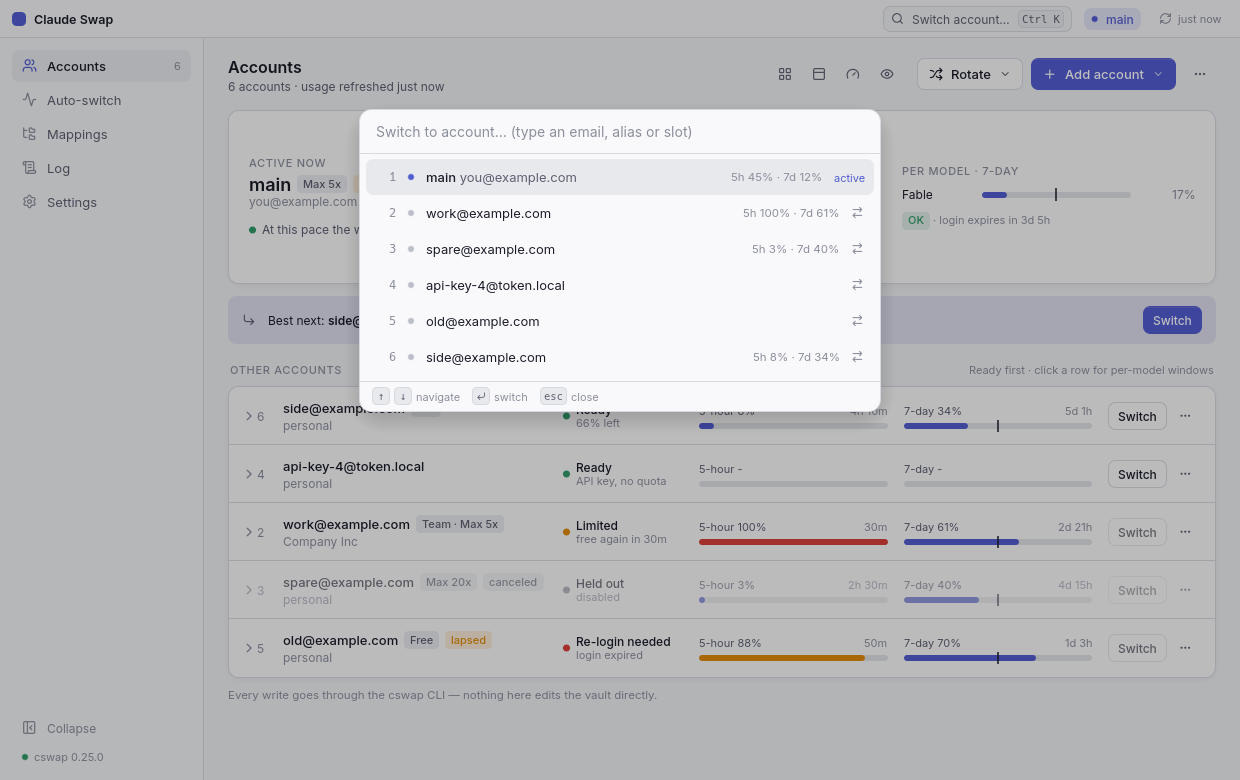
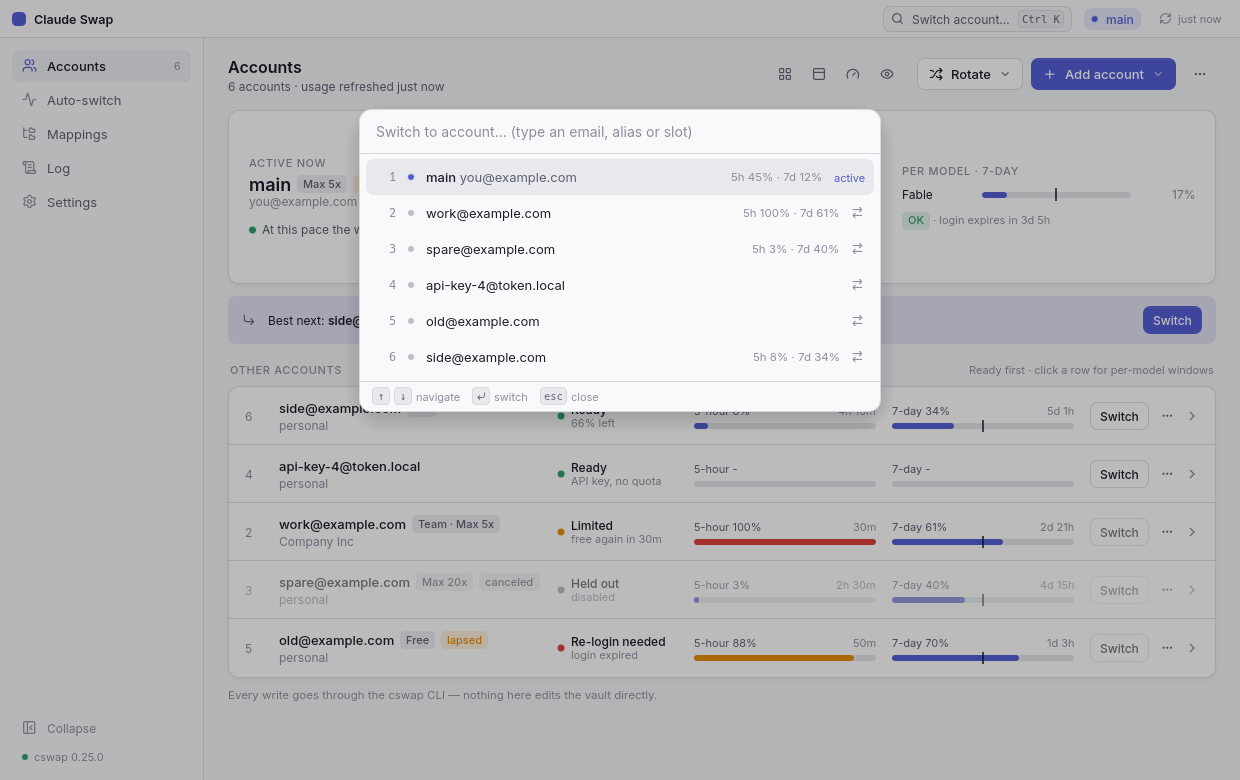
fix(accounts): ring arc on its track; expand chevron at the row's right end
- usage.rs: the track was a circle_stroke, which egui 0.37 paints OUTSIDE its
  radius, while the arc is a centred polyline, so the arc sat ~3.5 px inside
  the track. Track, arc and pace tick now come from one RingGeom (one centre
  radius, one width, centred strokes) in a pure ring_shapes(), with a test.
- accounts.rs: the chevron beside the slot number read as one glyph ("› 6");
  it now sits after the ⋯ menu and turns 90° as the row opens (150 ms), the
  number stays alone on the left. Same in the narrow layout. Number column
  18 px and bar minimum 120 px give back the room, so no chip wraps again.

Snapshots, review renders and README screenshots regenerated.

diff --git a/crates/ui/src/usage.rs b/crates/ui/src/usage.rs
@@ -74,37 +74,80 @@ pub fn bar(ui: &mut Ui, t: &Tokens, id: Id, pct: Option<f64>, tone: Tone, pace: 
     resp
 }
 
+/// Where a ring's strokes go: ONE centre radius and ONE width for the track, the arc and
+/// the pace tick. 1.1.0 drew the track with `circle_stroke`, which egui 0.37 paints OUTSIDE
+/// its radius, and the arc as a centred polyline: the arc sat 3.5 px inside its track.
+#[derive(Debug, Clone, Copy, PartialEq)]
+pub struct RingGeom {
+    pub center: Pos2,
+    /// Centre line of the stroke.
+    pub radius: f32,
+    pub width: f32,
+}
+
+impl RingGeom {
+    /// The ring in a `size` px square: the stroke's outer edge 2.5 px inside the square.
+    pub fn in_rect(rect: Rect) -> Self {
+        let size = rect.width().min(rect.height());
+        RingGeom { center: rect.center(), radius: size / 2.0 - 2.5 - RING_STROKE / 2.0, width: RING_STROKE }
+    }
+
+    /// Points on the centre line from twelve o'clock clockwise to `frac` of a turn.
+    fn points(&self, frac: f32) -> Vec<Pos2> {
+        let n = ((frac * 128.0).ceil() as usize).max(2);
+        (0..=n).map(|k| clock_point(self.center, self.radius, frac * k as f32 / n as f32)).collect()
+    }
+}
+
+/// The shapes of a ring (track, arc with round caps, pace tick), pure so the geometry can
+/// be tested: every stroke is centred on [`RingGeom::radius`] and is [`RingGeom::width`]
+/// wide; the tick crosses it, from one width inside that radius to one width outside.
+pub fn ring_shapes(
+    g: RingGeom,
+    filled_frac: f32,
+    pace_frac: Option<f32>,
+    track: Color32,
+    arc: Color32,
+    tick: Color32,
+) -> Vec<Shape> {
+    let mut out = Vec::new();
+    let mut ring = g.points(1.0);
+    ring.pop(); // closed: the last point would repeat the first
+    out.push(Shape::closed_line(ring, Stroke::new(g.width, track)));
+    // A zero-length arc with a round cap still paints a dot, which reads as "a little
+    // used" when the answer is none: nothing is drawn at 0.
+    if filled_frac > 0.0 {
+        let pts = g.points(filled_frac.min(1.0));
+        let (first, last) = (pts[0], pts[pts.len() - 1]);
+        out.push(Shape::line(pts, Stroke::new(g.width, arc)));
+        out.push(Shape::circle_filled(first, g.width / 2.0, arc));
+        out.push(Shape::circle_filled(last, g.width / 2.0, arc));
+    }
+    if let Some(f) = pace_frac {
+        let f = f.clamp(0.0, 1.0);
+        let (inner, outer) = (g.radius - g.width, g.radius + g.width);
+        out.push(Shape::line_segment(
+            [clock_point(g.center, inner, f), clock_point(g.center, outer, f)],
+            Stroke::new(1.5, tick),
+        ));
+    }
+    out
+}
+
 /// A `size` px ring filled to `pct` with the percentage in its middle (the hero's 104 px,
 /// a tile's 64 px). Captions under it are the caller's. `None` draws an empty ring and `—`.
 pub fn ring(ui: &mut Ui, t: &Tokens, id: Id, pct_value: Option<f64>, pace: Option<f64>, size: f32) -> Response {
     let (rect, resp) = ui.allocate_exact_size(vec2(size, size), Sense::hover());
-    let p = ui.painter();
-    let c = rect.center();
-    let r = size / 2.0 - 6.0;
-    p.circle_stroke(c, r, Stroke::new(RING_STROKE, t.surface_3));
+    let g = RingGeom::in_rect(rect);
     let value = pct_value.map(|v| v.clamp(0.0, 100.0)).unwrap_or(0.0) as f32;
     let filled = ui.ctx().animate_value_with_time(id.with("grow"), value, GROW_SECS);
     let tn = cswap_core::format::tone(pct_value);
-    // A zero-length arc with a round cap still paints a dot, which reads as "a little
-    // used" when the answer is none: nothing is drawn at 0.
-    if filled > 0.0 {
-        let col = fill_color(t, tn);
-        let frac = filled / 100.0;
-        let n = ((frac * 96.0).ceil() as usize).max(2);
-        let pts: Vec<Pos2> = (0..=n).map(|k| clock_point(c, r, frac * k as f32 / n as f32)).collect();
-        let (first, last) = (pts[0], pts[n]);
-        p.add(Shape::line(pts, Stroke::new(RING_STROKE, col)));
-        p.circle_filled(first, RING_STROKE / 2.0, col);
-        p.circle_filled(last, RING_STROKE / 2.0, col);
-    }
-    if let Some(m) = pace {
-        let frac = m.clamp(0.0, 100.0) as f32 / 100.0;
-        p.line_segment([clock_point(c, r - 7.0, frac), clock_point(c, r + 7.0, frac)], Stroke::new(1.5, t.text));
-    }
+    let pace = pace.map(|m| m.clamp(0.0, 100.0) as f32 / 100.0);
+    ui.painter().extend(ring_shapes(g, filled / 100.0, pace, t.surface_3, fill_color(t, tn), t.text));
     let text = pct(pct_value);
     let font = if size > 90.0 { style::body_semibold(20.0) } else { style::body_semibold(15.0) };
-    let g = widgets::galley(ui, text, font, t.text, size - 14.0);
-    ui.painter().galley(c - g.size() / 2.0, g, t.text);
+    let gl = widgets::galley(ui, text, font, t.text, size - 14.0);
+    ui.painter().galley(g.center - gl.size() / 2.0, gl, t.text);
     resp
 }
 
@@ -129,5 +172,35 @@ mod tests {
         assert!(near(clock_point(c, 10.0, 0.0), pos2(0.0, -10.0)), "twelve o'clock");
         assert!(near(clock_point(c, 10.0, 0.25), pos2(10.0, 0.0)), "three o'clock");
         assert!(near(clock_point(c, 10.0, 0.5), pos2(0.0, 10.0)), "half a turn points down");
+    }
+
+    // TESTED RULE (Purwa, PR #9): the arc lies ON its track. Track, arc and tick share one
+    // centre radius, track and arc one width and a centred stroke, at every ring size.
+    #[test]
+    fn ring_arc_track_and_tick_share_one_radius() {
+        use egui::epaint::{PathShape, StrokeKind};
+        for size in [64.0, 104.0] {
+            let g = RingGeom::in_rect(Rect::from_min_size(pos2(10.0, 20.0), vec2(size, size)));
+            assert!((g.radius + g.width / 2.0 - (size / 2.0 - 2.5)).abs() < 1e-4, "outer edge inside the box");
+            let shapes = ring_shapes(g, 0.45, Some(0.5), Color32::GRAY, Color32::BLUE, Color32::BLACK);
+            let paths: Vec<&PathShape> =
+                shapes.iter().filter_map(|s| if let Shape::Path(p) = s { Some(p) } else { None }).collect();
+            let (track, arc) = (paths[0], paths[1]);
+            assert!(track.closed && !arc.closed);
+            for p in [track, arc] {
+                assert_eq!(p.stroke.width, g.width, "{size}px: one width");
+                assert_eq!(p.stroke.kind, StrokeKind::Middle, "{size}px: centred on the radius");
+                for pt in &p.points {
+                    assert!(((*pt - g.center).length() - g.radius).abs() < 1e-3, "{size}px: on the radius");
+                }
+            }
+            let tick = shapes
+                .iter()
+                .find_map(|s| if let Shape::LineSegment { points, .. } = s { Some(*points) } else { None })
+                .expect("tick");
+            let (a, b) = ((tick[0] - g.center).length(), (tick[1] - g.center).length());
+            assert!(((a + b) / 2.0 - g.radius).abs() < 1e-3, "{size}px: the tick is centred on the radius");
+            assert!(a < g.radius - g.width / 2.0 && b > g.radius + g.width / 2.0, "it crosses the whole stroke");
+        }
     }
 }

diff --git a/crates/ui/src/pages/accounts.rs b/crates/ui/src/pages/accounts.rs
@@ -686,9 +686,9 @@ impl AccountsPage {
         r.inner.clicked().then_some(RowAct::Switch)
     }
 
-    /// Width of [`Self::switch_button`] + 4 + the ⋯ button.
+    /// Width of a row's actions: [`Self::switch_button`], the ⋯ button, the expand chevron.
     fn actions_width(ui: &Ui) -> f32 {
-        Button::new("Switch").small().width(ui) + 4.0 + 28.0
+        Button::new("Switch").small().width(ui) + 4.0 + 28.0 + 4.0 + CHEV_W
     }
 
     // ---- rows ------------------------------------------------------------------------
@@ -786,12 +786,11 @@ impl AccountsPage {
             let h = name_h.max(bars_h).max(34.0);
             (h, y0 + h / 2.0, y0 + (h - bars_h) / 2.0)
         };
-        // number with its chevron, turning 90° as the row opens
+        // the slot number alone on the left: beside it, the chevron read as part of it
+        // (Purwa, PR #9); the chevron sits after ⋯ instead
         let turn = row.ctx().animate_bool_with_time(id.with("open"), open, TRANSITION_SECS);
         let pnt = row.painter().clone();
-        let chev_c = pos2(x_num + 4.0, line1_mid);
-        chevron(&pnt, chev_c, turn, t.text_3);
-        pnt.text(pos2(x_num + 12.0, line1_mid), Align2::LEFT_CENTER, n.to_string(), style::body(12.0), t.text_3);
+        pnt.text(pos2(x_num, line1_mid), Align2::LEFT_CENTER, n.to_string(), style::body(12.0), t.text_3);
         // bars
         let u = view::usage_of(a);
         let five = u.and_then(|u| u.five_hour.clone());
@@ -828,6 +827,10 @@ impl AccountsPage {
                 .layout(Layout::right_to_left(Align::Center)),
             |ui| {
                 ui.spacing_mut().item_spacing.x = 4.0;
+                // the expand chevron, far right, turning 90° as the row opens; not a
+                // button of its own: the whole row is the click target
+                let (slot, _) = ui.allocate_exact_size(vec2(CHEV_W, 28.0), Sense::hover());
+                chevron(ui.painter(), slot.center(), turn, t.text_3);
                 let m = self.menu(ui, a);
                 let s = self.switch_button(ui, a, r.kind);
                 m.or(s)
@@ -1052,14 +1055,16 @@ impl AccountsPage {
 
 // ---- shared pieces ----------------------------------------------------------------------
 
-/// The mockup's row: 11 px top and bottom, 16 px sides, 16 px gaps, `#` 22, readiness 120.
+/// The mockup's row: 11 px top and bottom, 16 px sides, 16 px gaps, `#` 18, readiness 120.
 const ROW_PAD: f32 = 16.0;
 const GAP: f32 = 16.0;
-const NUM_W: f32 = 22.0;
+const NUM_W: f32 = 18.0;
 const READY_W: f32 = 120.0;
+/// The expand chevron's slot at the right end of a row.
+const CHEV_W: f32 = 14.0;
 /// The bars never get narrower than this to make room for a long name line: `5-hour 100%`
 /// and `2d 21h` side by side still fit.
-const BAR_MIN: f32 = 128.0;
+const BAR_MIN: f32 = 120.0;
 
 /// Column widths of the wide row template.
 struct Cols {
